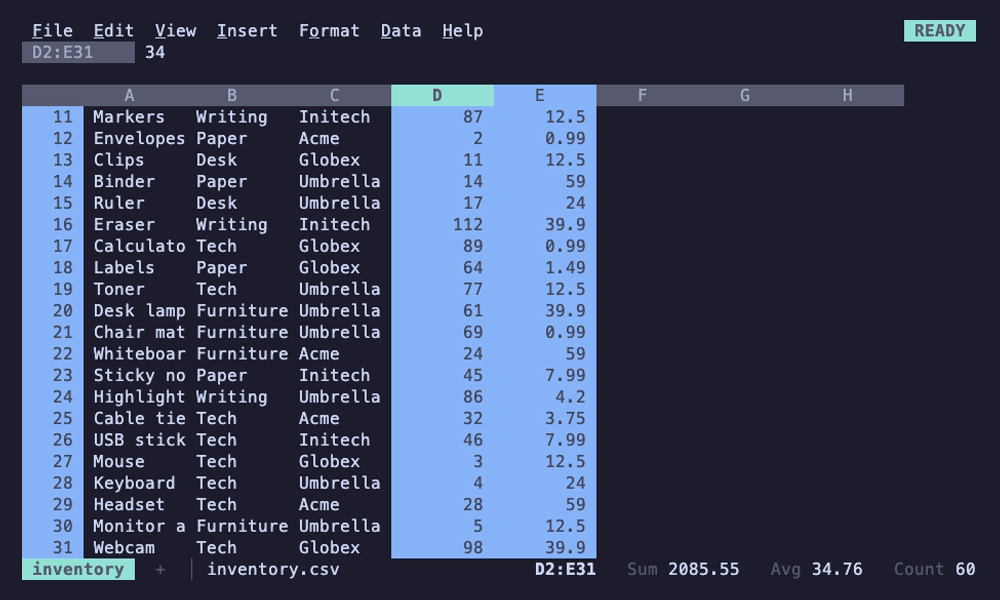
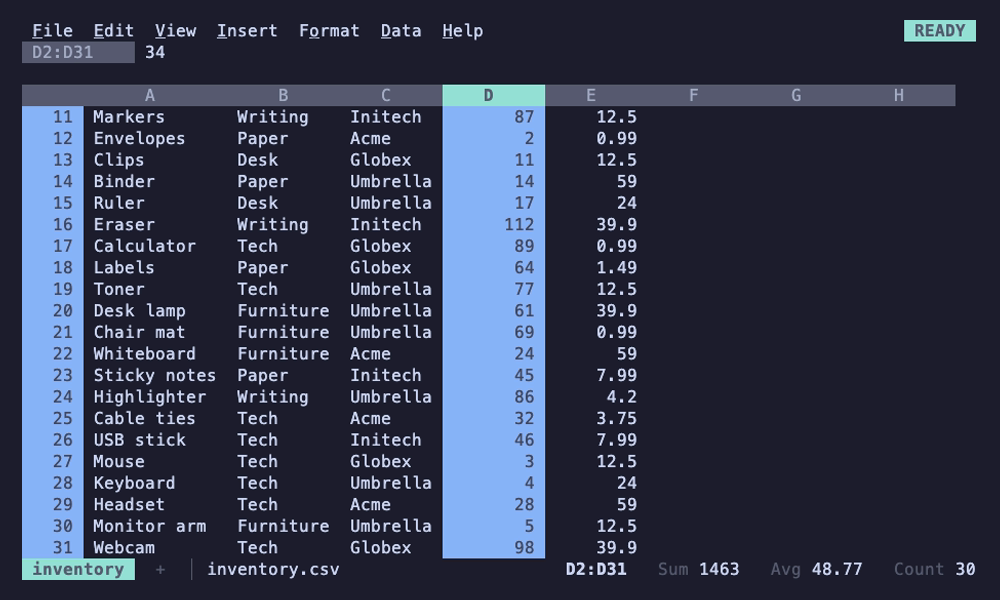
Imports without widths of their own fit their columns to the data
CSV, TSV, JSON, NUON, SQLite and Parquet imports, and tables read from
standard input (012 -, --pipe), kept every column at the default width,
so longer text (demos/data/inventory.csv's items) showed cut short.
Only XLSX and 1-2-3 files carry widths, and region tables were already
fitted. Such imports now widen each column to its widest text in the
header and the first 200 rows, capped at 30, as region tables are
fitted (Sheet.LoadFitWidths); formats that keep widths keep them.

diff --git a/e2e/testdata/screens/pipe-quit.html b/e2e/testdata/screens/pipe-quit.html
@@ -1,11 +1,11 @@
 <pre class="screen"> <span style="text-decoration:underline">F</span>ile  <span style="text-decoration:underline">E</span>dit  <span style="text-decoration:underline">V</span>iew  <span style="text-decoration:underline">I</span>nsert  F<span style="text-decoration:underline">o</span>rmat  <span style="text-decoration:underline">D</span>ata  <span style="text-decoration:underline">H</span>elp                                                 <span style="background:var(--vt-palette-6)"> </span><span style="color:var(--vt-palette-0);background:var(--vt-palette-6);font-weight:bold">MENU</span><span style="background:var(--vt-palette-6)"> </span>
 <span style="background:var(--vt-palette-8)"> </span><span style="color:var(--vt-palette-15);background:var(--vt-palette-8)">A1:B3</span><span style="background:var(--vt-palette-8)">     </span> name
 Send A1:B3 as NUON?   <span style="background:var(--vt-palette-8)"> </span><span style="color:var(--vt-palette-15);background:var(--vt-palette-8)">Enter</span><span style="background:var(--vt-palette-8)"> </span> Send selection   <span style="background:var(--vt-palette-8)"> </span><span style="color:var(--vt-palette-15);background:var(--vt-palette-8)">S</span><span style="background:var(--vt-palette-8)"> </span> Send sheet   <span style="background:var(--vt-palette-8)"> </span><span style="color:var(--vt-palette-15);background:var(--vt-palette-8)">D</span><span style="background:var(--vt-palette-8)"> </span> Don&#39;t send   <span style="background:var(--vt-palette-8)"> </span><span style="color:var(--vt-palette-15);background:var(--vt-palette-8)">Esc</span><span style="background:var(--vt-palette-8)"> </span> Cancel
-<span style="background:var(--vt-palette-8)">      </span><span style="background:var(--vt-palette-6)">    </span><span style="color:var(--vt-palette-0);background:var(--vt-palette-6);font-weight:bold">A</span><span style="background:var(--vt-palette-6)">     </span><span style="background:var(--vt-palette-4)">    </span><span style="color:var(--vt-palette-0);background:var(--vt-palette-4)">B</span><span style="background:var(--vt-palette-4)">     </span><span style="background:var(--vt-palette-8)">         </span><span style="color:var(--vt-palette-15);background:var(--vt-palette-8)">C</span><span style="background:var(--vt-palette-8)">              </span><span style="color:var(--vt-palette-15);background:var(--vt-palette-8)">D</span><span style="background:var(--vt-palette-8)">         </span><span style="color:var(--vt-palette-15);background:var(--vt-palette-8)">E</span><span style="background:var(--vt-palette-8)">         </span><span style="color:var(--vt-palette-15);background:var(--vt-palette-8)">F</span><span style="background:var(--vt-palette-8)">         </span><span style="color:var(--vt-palette-15);background:var(--vt-palette-8)">G</span><span style="background:var(--vt-palette-8)">         </span><span style="color:var(--vt-palette-15);background:var(--vt-palette-8)">H</span><span style="background:var(--vt-palette-8)">     </span>
-<span style="background:var(--vt-palette-6)">    </span><span style="color:var(--vt-palette-0);background:var(--vt-palette-6);font-weight:bold">1</span><span style="background:var(--vt-palette-6)">  </span><span style="color:var(--vt-palette-0);background:var(--vt-palette-6)">name</span><span style="background:var(--vt-palette-6)">     </span><span style="background:var(--vt-palette-4)"> </span><span style="color:var(--vt-palette-0);background:var(--vt-palette-4)">size</span><span style="background:var(--vt-palette-4)">     </span> modified
-<span style="background:var(--vt-palette-4)">    </span><span style="color:var(--vt-palette-0);background:var(--vt-palette-4)">2</span><span style="background:var(--vt-palette-4)">  </span><span style="color:var(--vt-palette-0);background:var(--vt-palette-4)">CLAUDE.md</span><span style="background:var(--vt-palette-4)">   </span><span style="color:var(--vt-palette-0);background:var(--vt-palette-4)">1.6</span><span style="background:var(--vt-palette-4)"> </span><span style="color:var(--vt-palette-0);background:var(--vt-palette-4)">kB</span><span style="background:var(--vt-palette-4)"> </span> 9/27/2026 11:27:31
-<span style="background:var(--vt-palette-4)">    </span><span style="color:var(--vt-palette-0);background:var(--vt-palette-4)">3</span><span style="background:var(--vt-palette-4)">  </span><span style="color:var(--vt-palette-0);background:var(--vt-palette-4)">go.mod</span><span style="background:var(--vt-palette-4)">       </span><span style="color:var(--vt-palette-0);background:var(--vt-palette-4)">812</span><span style="background:var(--vt-palette-4)"> </span><span style="color:var(--vt-palette-0);background:var(--vt-palette-4)">B</span><span style="background:var(--vt-palette-4)"> </span>  9/20/2026 8:00:00
-<span style="background:var(--vt-palette-8)">    </span><span style="color:var(--vt-palette-15);background:var(--vt-palette-8)">4</span><span style="background:var(--vt-palette-8)"> </span> e2e         4.2 kB  9/28/2026 17:45:10
+<span style="background:var(--vt-palette-8)">      </span><span style="background:var(--vt-palette-6)">     </span><span style="color:var(--vt-palette-0);background:var(--vt-palette-6);font-weight:bold">A</span><span style="background:var(--vt-palette-6)">     </span><span style="background:var(--vt-palette-4)">    </span><span style="color:var(--vt-palette-0);background:var(--vt-palette-4)">B</span><span style="background:var(--vt-palette-4)">     </span><span style="background:var(--vt-palette-8)">         </span><span style="color:var(--vt-palette-15);background:var(--vt-palette-8)">C</span><span style="background:var(--vt-palette-8)">              </span><span style="color:var(--vt-palette-15);background:var(--vt-palette-8)">D</span><span style="background:var(--vt-palette-8)">         </span><span style="color:var(--vt-palette-15);background:var(--vt-palette-8)">E</span><span style="background:var(--vt-palette-8)">         </span><span style="color:var(--vt-palette-15);background:var(--vt-palette-8)">F</span><span style="background:var(--vt-palette-8)">         </span><span style="color:var(--vt-palette-15);background:var(--vt-palette-8)">G</span><span style="background:var(--vt-palette-8)">         </span><span style="color:var(--vt-palette-15);background:var(--vt-palette-8)">H</span><span style="background:var(--vt-palette-8)">     </span>
+<span style="background:var(--vt-palette-6)">    </span><span style="color:var(--vt-palette-0);background:var(--vt-palette-6);font-weight:bold">1</span><span style="background:var(--vt-palette-6)">  </span><span style="color:var(--vt-palette-0);background:var(--vt-palette-6)">name</span><span style="background:var(--vt-palette-6)">      </span><span style="background:var(--vt-palette-4)"> </span><span style="color:var(--vt-palette-0);background:var(--vt-palette-4)">size</span><span style="background:var(--vt-palette-4)">     </span> modified
+<span style="background:var(--vt-palette-4)">    </span><span style="color:var(--vt-palette-0);background:var(--vt-palette-4)">2</span><span style="background:var(--vt-palette-4)">  </span><span style="color:var(--vt-palette-0);background:var(--vt-palette-4)">CLAUDE.md</span><span style="background:var(--vt-palette-4)">    </span><span style="color:var(--vt-palette-0);background:var(--vt-palette-4)">1.6</span><span style="background:var(--vt-palette-4)"> </span><span style="color:var(--vt-palette-0);background:var(--vt-palette-4)">kB</span><span style="background:var(--vt-palette-4)"> </span> 9/27/2026 11:27:31
+<span style="background:var(--vt-palette-4)">    </span><span style="color:var(--vt-palette-0);background:var(--vt-palette-4)">3</span><span style="background:var(--vt-palette-4)">  </span><span style="color:var(--vt-palette-0);background:var(--vt-palette-4)">go.mod</span><span style="background:var(--vt-palette-4)">        </span><span style="color:var(--vt-palette-0);background:var(--vt-palette-4)">812</span><span style="background:var(--vt-palette-4)"> </span><span style="color:var(--vt-palette-0);background:var(--vt-palette-4)">B</span><span style="background:var(--vt-palette-4)"> </span>  9/20/2026 8:00:00
+<span style="background:var(--vt-palette-8)">    </span><span style="color:var(--vt-palette-15);background:var(--vt-palette-8)">4</span><span style="background:var(--vt-palette-8)"> </span> e2e          4.2 kB  9/28/2026 17:45:10
 <span style="background:var(--vt-palette-8)">    </span><span style="color:var(--vt-palette-15);background:var(--vt-palette-8)">5</span><span style="background:var(--vt-palette-8)"> </span>
 <span style="background:var(--vt-palette-8)">    </span><span style="color:var(--vt-palette-15);background:var(--vt-palette-8)">6</span><span style="background:var(--vt-palette-8)"> </span>
 <span style="background:var(--vt-palette-8)">    </span><span style="color:var(--vt-palette-15);background:var(--vt-palette-8)">7</span><span style="background:var(--vt-palette-8)"> </span>

diff --git a/e2e/testdata/screens/pipe-quit-light.html b/e2e/testdata/screens/pipe-quit-light.html
@@ -1,11 +1,11 @@
 <pre class="screen"> <span style="text-decoration:underline">F</span>ile  <span style="text-decoration:underline">E</span>dit  <span style="text-decoration:underline">V</span>iew  <span style="text-decoration:underline">I</span>nsert  F<span style="text-decoration:underline">o</span>rmat  <span style="text-decoration:underline">D</span>ata  <span style="text-decoration:underline">H</span>elp                                                 <span style="background:var(--vt-palette-6)"> </span><span style="color:var(--vt-palette-0);background:var(--vt-palette-6);font-weight:bold">MENU</span><span style="background:var(--vt-palette-6)"> </span>
 <span style="background:var(--vt-palette-7)"> </span><span style="color:var(--vt-palette-0);background:var(--vt-palette-7)">A1:B3</span><span style="background:var(--vt-palette-7)">     </span> name
 Send A1:B3 as NUON?   <span style="background:var(--vt-palette-7)"> </span><span style="color:var(--vt-palette-0);background:var(--vt-palette-7)">Enter</span><span style="background:var(--vt-palette-7)"> </span> Send selection   <span style="background:var(--vt-palette-7)"> </span><span style="color:var(--vt-palette-0);background:var(--vt-palette-7)">S</span><span style="background:var(--vt-palette-7)"> </span> Send sheet   <span style="background:var(--vt-palette-7)"> </span><span style="color:var(--vt-palette-0);background:var(--vt-palette-7)">D</span><span style="background:var(--vt-palette-7)"> </span> Don&#39;t send   <span style="background:var(--vt-palette-7)"> </span><span style="color:var(--vt-palette-0);background:var(--vt-palette-7)">Esc</span><span style="background:var(--vt-palette-7)"> </span> Cancel
-<span style="background:var(--vt-palette-7)">      </span><span style="background:var(--vt-palette-6)">    </span><span style="color:var(--vt-palette-0);background:var(--vt-palette-6);font-weight:bold">A</span><span style="background:var(--vt-palette-6)">     </span><span style="background:var(--vt-palette-4)">    </span><span style="color:var(--vt-palette-15);background:var(--vt-palette-4)">B</span><span style="background:var(--vt-palette-4)">     </span><span style="background:var(--vt-palette-7)">         </span><span style="color:var(--vt-palette-0);background:var(--vt-palette-7)">C</span><span style="background:var(--vt-palette-7)">              </span><span style="color:var(--vt-palette-0);background:var(--vt-palette-7)">D</span><span style="background:var(--vt-palette-7)">         </span><span style="color:var(--vt-palette-0);background:var(--vt-palette-7)">E</span><span style="background:var(--vt-palette-7)">         </span><span style="color:var(--vt-palette-0);background:var(--vt-palette-7)">F</span><span style="background:var(--vt-palette-7)">         </span><span style="color:var(--vt-palette-0);background:var(--vt-palette-7)">G</span><span style="background:var(--vt-palette-7)">         </span><span style="color:var(--vt-palette-0);background:var(--vt-palette-7)">H</span><span style="background:var(--vt-palette-7)">     </span>
-<span style="background:var(--vt-palette-6)">    </span><span style="color:var(--vt-palette-0);background:var(--vt-palette-6);font-weight:bold">1</span><span style="background:var(--vt-palette-6)">  </span><span style="color:var(--vt-palette-0);background:var(--vt-palette-6)">name</span><span style="background:var(--vt-palette-6)">     </span><span style="background:var(--vt-palette-4)"> </span><span style="color:var(--vt-palette-15);background:var(--vt-palette-4)">size</span><span style="background:var(--vt-palette-4)">     </span> modified
-<span style="background:var(--vt-palette-4)">    </span><span style="color:var(--vt-palette-15);background:var(--vt-palette-4)">2</span><span style="background:var(--vt-palette-4)">  </span><span style="color:var(--vt-palette-15);background:var(--vt-palette-4)">CLAUDE.md</span><span style="background:var(--vt-palette-4)">   </span><span style="color:var(--vt-palette-15);background:var(--vt-palette-4)">1.6</span><span style="background:var(--vt-palette-4)"> </span><span style="color:var(--vt-palette-15);background:var(--vt-palette-4)">kB</span><span style="background:var(--vt-palette-4)"> </span> 9/27/2026 11:27:31
-<span style="background:var(--vt-palette-4)">    </span><span style="color:var(--vt-palette-15);background:var(--vt-palette-4)">3</span><span style="background:var(--vt-palette-4)">  </span><span style="color:var(--vt-palette-15);background:var(--vt-palette-4)">go.mod</span><span style="background:var(--vt-palette-4)">       </span><span style="color:var(--vt-palette-15);background:var(--vt-palette-4)">812</span><span style="background:var(--vt-palette-4)"> </span><span style="color:var(--vt-palette-15);background:var(--vt-palette-4)">B</span><span style="background:var(--vt-palette-4)"> </span>  9/20/2026 8:00:00
-<span style="background:var(--vt-palette-7)">    </span><span style="color:var(--vt-palette-0);background:var(--vt-palette-7)">4</span><span style="background:var(--vt-palette-7)"> </span> e2e         4.2 kB  9/28/2026 17:45:10
+<span style="background:var(--vt-palette-7)">      </span><span style="background:var(--vt-palette-6)">     </span><span style="color:var(--vt-palette-0);background:var(--vt-palette-6);font-weight:bold">A</span><span style="background:var(--vt-palette-6)">     </span><span style="background:var(--vt-palette-4)">    </span><span style="color:var(--vt-palette-15);background:var(--vt-palette-4)">B</span><span style="background:var(--vt-palette-4)">     </span><span style="background:var(--vt-palette-7)">         </span><span style="color:var(--vt-palette-0);background:var(--vt-palette-7)">C</span><span style="background:var(--vt-palette-7)">              </span><span style="color:var(--vt-palette-0);background:var(--vt-palette-7)">D</span><span style="background:var(--vt-palette-7)">         </span><span style="color:var(--vt-palette-0);background:var(--vt-palette-7)">E</span><span style="background:var(--vt-palette-7)">         </span><span style="color:var(--vt-palette-0);background:var(--vt-palette-7)">F</span><span style="background:var(--vt-palette-7)">         </span><span style="color:var(--vt-palette-0);background:var(--vt-palette-7)">G</span><span style="background:var(--vt-palette-7)">         </span><span style="color:var(--vt-palette-0);background:var(--vt-palette-7)">H</span><span style="background:var(--vt-palette-7)">     </span>
+<span style="background:var(--vt-palette-6)">    </span><span style="color:var(--vt-palette-0);background:var(--vt-palette-6);font-weight:bold">1</span><span style="background:var(--vt-palette-6)">  </span><span style="color:var(--vt-palette-0);background:var(--vt-palette-6)">name</span><span style="background:var(--vt-palette-6)">      </span><span style="background:var(--vt-palette-4)"> </span><span style="color:var(--vt-palette-15);background:var(--vt-palette-4)">size</span><span style="background:var(--vt-palette-4)">     </span> modified
+<span style="background:var(--vt-palette-4)">    </span><span style="color:var(--vt-palette-15);background:var(--vt-palette-4)">2</span><span style="background:var(--vt-palette-4)">  </span><span style="color:var(--vt-palette-15);background:var(--vt-palette-4)">CLAUDE.md</span><span style="background:var(--vt-palette-4)">    </span><span style="color:var(--vt-palette-15);background:var(--vt-palette-4)">1.6</span><span style="background:var(--vt-palette-4)"> </span><span style="color:var(--vt-palette-15);background:var(--vt-palette-4)">kB</span><span style="background:var(--vt-palette-4)"> </span> 9/27/2026 11:27:31
+<span style="background:var(--vt-palette-4)">    </span><span style="color:var(--vt-palette-15);background:var(--vt-palette-4)">3</span><span style="background:var(--vt-palette-4)">  </span><span style="color:var(--vt-palette-15);background:var(--vt-palette-4)">go.mod</span><span style="background:var(--vt-palette-4)">        </span><span style="color:var(--vt-palette-15);background:var(--vt-palette-4)">812</span><span style="background:var(--vt-palette-4)"> </span><span style="color:var(--vt-palette-15);background:var(--vt-palette-4)">B</span><span style="background:var(--vt-palette-4)"> </span>  9/20/2026 8:00:00
+<span style="background:var(--vt-palette-7)">    </span><span style="color:var(--vt-palette-0);background:var(--vt-palette-7)">4</span><span style="background:var(--vt-palette-7)"> </span> e2e          4.2 kB  9/28/2026 17:45:10
 <span style="background:var(--vt-palette-7)">    </span><span style="color:var(--vt-palette-0);background:var(--vt-palette-7)">5</span><span style="background:var(--vt-palette-7)"> </span>
 <span style="background:var(--vt-palette-7)">    </span><span style="color:var(--vt-palette-0);background:var(--vt-palette-7)">6</span><span style="background:var(--vt-palette-7)"> </span>
 <span style="background:var(--vt-palette-7)">    </span><span style="color:var(--vt-palette-0);background:var(--vt-palette-7)">7</span><span style="background:var(--vt-palette-7)"> </span>

diff --git a/e2e/testdata/screens/pipe-status.html b/e2e/testdata/screens/pipe-status.html
@@ -1,11 +1,11 @@
 <pre class="screen"> <span style="text-decoration:underline">F</span>ile  <span style="text-decoration:underline">E</span>dit  <span style="text-decoration:underline">V</span>iew  <span style="text-decoration:underline">I</span>nsert  F<span style="text-decoration:underline">o</span>rmat  <span style="text-decoration:underline">D</span>ata  <span style="text-decoration:underline">H</span>elp                                                <span style="background:var(--vt-palette-6)"> </span><span style="color:var(--vt-palette-0);background:var(--vt-palette-6);font-weight:bold">READY</span><span style="background:var(--vt-palette-6)"> </span>
 <span style="background:var(--vt-palette-8)"> </span><span style="color:var(--vt-palette-15);background:var(--vt-palette-8)">A1</span><span style="background:var(--vt-palette-8)">        </span> name
 Read 4 rows of NUON from standard input
-<span style="background:var(--vt-palette-8)">      </span><span style="background:var(--vt-palette-6)">    </span><span style="color:var(--vt-palette-0);background:var(--vt-palette-6);font-weight:bold">A</span><span style="background:var(--vt-palette-6)">     </span><span style="background:var(--vt-palette-8)">    </span><span style="color:var(--vt-palette-15);background:var(--vt-palette-8)">B</span><span style="background:var(--vt-palette-8)">              </span><span style="color:var(--vt-palette-15);background:var(--vt-palette-8)">C</span><span style="background:var(--vt-palette-8)">              </span><span style="color:var(--vt-palette-15);background:var(--vt-palette-8)">D</span><span style="background:var(--vt-palette-8)">         </span><span style="color:var(--vt-palette-15);background:var(--vt-palette-8)">E</span><span style="background:var(--vt-palette-8)">         </span><span style="color:var(--vt-palette-15);background:var(--vt-palette-8)">F</span><span style="background:var(--vt-palette-8)">         </span><span style="color:var(--vt-palette-15);background:var(--vt-palette-8)">G</span><span style="background:var(--vt-palette-8)">         </span><span style="color:var(--vt-palette-15);background:var(--vt-palette-8)">H</span><span style="background:var(--vt-palette-8)">     </span>
-<span style="background:var(--vt-palette-6)">    </span><span style="color:var(--vt-palette-0);background:var(--vt-palette-6);font-weight:bold">1</span><span style="background:var(--vt-palette-6)">  </span><span style="color:var(--vt-palette-0);background:var(--vt-palette-6)">name</span><span style="background:var(--vt-palette-6)">     </span> size      modified
-<span style="background:var(--vt-palette-8)">    </span><span style="color:var(--vt-palette-15);background:var(--vt-palette-8)">2</span><span style="background:var(--vt-palette-8)"> </span> CLAUDE.md   1.6 kB  9/27/2026 11:27:31
-<span style="background:var(--vt-palette-8)">    </span><span style="color:var(--vt-palette-15);background:var(--vt-palette-8)">3</span><span style="background:var(--vt-palette-8)"> </span> go.mod       812 B   9/20/2026 8:00:00
-<span style="background:var(--vt-palette-8)">    </span><span style="color:var(--vt-palette-15);background:var(--vt-palette-8)">4</span><span style="background:var(--vt-palette-8)"> </span> e2e         4.2 kB  9/28/2026 17:45:10
+<span style="background:var(--vt-palette-8)">      </span><span style="background:var(--vt-palette-6)">     </span><span style="color:var(--vt-palette-0);background:var(--vt-palette-6);font-weight:bold">A</span><span style="background:var(--vt-palette-6)">     </span><span style="background:var(--vt-palette-8)">    </span><span style="color:var(--vt-palette-15);background:var(--vt-palette-8)">B</span><span style="background:var(--vt-palette-8)">              </span><span style="color:var(--vt-palette-15);background:var(--vt-palette-8)">C</span><span style="background:var(--vt-palette-8)">              </span><span style="color:var(--vt-palette-15);background:var(--vt-palette-8)">D</span><span style="background:var(--vt-palette-8)">         </span><span style="color:var(--vt-palette-15);background:var(--vt-palette-8)">E</span><span style="background:var(--vt-palette-8)">         </span><span style="color:var(--vt-palette-15);background:var(--vt-palette-8)">F</span><span style="background:var(--vt-palette-8)">         </span><span style="color:var(--vt-palette-15);background:var(--vt-palette-8)">G</span><span style="background:var(--vt-palette-8)">         </span><span style="color:var(--vt-palette-15);background:var(--vt-palette-8)">H</span><span style="background:var(--vt-palette-8)">     </span>
+<span style="background:var(--vt-palette-6)">    </span><span style="color:var(--vt-palette-0);background:var(--vt-palette-6);font-weight:bold">1</span><span style="background:var(--vt-palette-6)">  </span><span style="color:var(--vt-palette-0);background:var(--vt-palette-6)">name</span><span style="background:var(--vt-palette-6)">      </span> size      modified
+<span style="background:var(--vt-palette-8)">    </span><span style="color:var(--vt-palette-15);background:var(--vt-palette-8)">2</span><span style="background:var(--vt-palette-8)"> </span> CLAUDE.md    1.6 kB  9/27/2026 11:27:31
+<span style="background:var(--vt-palette-8)">    </span><span style="color:var(--vt-palette-15);background:var(--vt-palette-8)">3</span><span style="background:var(--vt-palette-8)"> </span> go.mod        812 B   9/20/2026 8:00:00
+<span style="background:var(--vt-palette-8)">    </span><span style="color:var(--vt-palette-15);background:var(--vt-palette-8)">4</span><span style="background:var(--vt-palette-8)"> </span> e2e          4.2 kB  9/28/2026 17:45:10
 <span style="background:var(--vt-palette-8)">    </span><span style="color:var(--vt-palette-15);background:var(--vt-palette-8)">5</span><span style="background:var(--vt-palette-8)"> </span>
 <span style="background:var(--vt-palette-8)">    </span><span style="color:var(--vt-palette-15);background:var(--vt-palette-8)">6</span><span style="background:var(--vt-palette-8)"> </span>
 <span style="background:var(--vt-palette-8)">    </span><span style="color:var(--vt-palette-15);background:var(--vt-palette-8)">7</span><span style="background:var(--vt-palette-8)"> </span>

diff --git a/e2e/testdata/screens/pipe-status-light.html b/e2e/testdata/screens/pipe-status-light.html
@@ -1,11 +1,11 @@
 <pre class="screen"> <span style="text-decoration:underline">F</span>ile  <span style="text-decoration:underline">E</span>dit  <span style="text-decoration:underline">V</span>iew  <span style="text-decoration:underline">I</span>nsert  F<span style="text-decoration:underline">o</span>rmat  <span style="text-decoration:underline">D</span>ata  <span style="text-decoration:underline">H</span>elp                                                <span style="background:var(--vt-palette-6)"> </span><span style="color:var(--vt-palette-0);background:var(--vt-palette-6);font-weight:bold">READY</span><span style="background:var(--vt-palette-6)"> </span>
 <span style="background:var(--vt-palette-7)"> </span><span style="color:var(--vt-palette-0);background:var(--vt-palette-7)">A1</span><span style="background:var(--vt-palette-7)">        </span> name
 Read 4 rows of NUON from standard input
-<span style="background:var(--vt-palette-7)">      </span><span style="background:var(--vt-palette-6)">    </span><span style="color:var(--vt-palette-0);background:var(--vt-palette-6);font-weight:bold">A</span><span style="background:var(--vt-palette-6)">     </span><span style="background:var(--vt-palette-7)">    </span><span style="color:var(--vt-palette-0);background:var(--vt-palette-7)">B</span><span style="background:var(--vt-palette-7)">              </span><span style="color:var(--vt-palette-0);background:var(--vt-palette-7)">C</span><span style="background:var(--vt-palette-7)">              </span><span style="color:var(--vt-palette-0);background:var(--vt-palette-7)">D</span><span style="background:var(--vt-palette-7)">         </span><span style="color:var(--vt-palette-0);background:var(--vt-palette-7)">E</span><span style="background:var(--vt-palette-7)">         </span><span style="color:var(--vt-palette-0);background:var(--vt-palette-7)">F</span><span style="background:var(--vt-palette-7)">         </span><span style="color:var(--vt-palette-0);background:var(--vt-palette-7)">G</span><span style="background:var(--vt-palette-7)">         </span><span style="color:var(--vt-palette-0);background:var(--vt-palette-7)">H</span><span style="background:var(--vt-palette-7)">     </span>
-<span style="background:var(--vt-palette-6)">    </span><span style="color:var(--vt-palette-0);background:var(--vt-palette-6);font-weight:bold">1</span><span style="background:var(--vt-palette-6)">  </span><span style="color:var(--vt-palette-0);background:var(--vt-palette-6)">name</span><span style="background:var(--vt-palette-6)">     </span> size      modified
-<span style="background:var(--vt-palette-7)">    </span><span style="color:var(--vt-palette-0);background:var(--vt-palette-7)">2</span><span style="background:var(--vt-palette-7)"> </span> CLAUDE.md   1.6 kB  9/27/2026 11:27:31
-<span style="background:var(--vt-palette-7)">    </span><span style="color:var(--vt-palette-0);background:var(--vt-palette-7)">3</span><span style="background:var(--vt-palette-7)"> </span> go.mod       812 B   9/20/2026 8:00:00
-<span style="background:var(--vt-palette-7)">    </span><span style="color:var(--vt-palette-0);background:var(--vt-palette-7)">4</span><span style="background:var(--vt-palette-7)"> </span> e2e         4.2 kB  9/28/2026 17:45:10
+<span style="background:var(--vt-palette-7)">      </span><span style="background:var(--vt-palette-6)">     </span><span style="color:var(--vt-palette-0);background:var(--vt-palette-6);font-weight:bold">A</span><span style="background:var(--vt-palette-6)">     </span><span style="background:var(--vt-palette-7)">    </span><span style="color:var(--vt-palette-0);background:var(--vt-palette-7)">B</span><span style="background:var(--vt-palette-7)">              </span><span style="color:var(--vt-palette-0);background:var(--vt-palette-7)">C</span><span style="background:var(--vt-palette-7)">              </span><span style="color:var(--vt-palette-0);background:var(--vt-palette-7)">D</span><span style="background:var(--vt-palette-7)">         </span><span style="color:var(--vt-palette-0);background:var(--vt-palette-7)">E</span><span style="background:var(--vt-palette-7)">         </span><span style="color:var(--vt-palette-0);background:var(--vt-palette-7)">F</span><span style="background:var(--vt-palette-7)">         </span><span style="color:var(--vt-palette-0);background:var(--vt-palette-7)">G</span><span style="background:var(--vt-palette-7)">         </span><span style="color:var(--vt-palette-0);background:var(--vt-palette-7)">H</span><span style="background:var(--vt-palette-7)">     </span>
+<span style="background:var(--vt-palette-6)">    </span><span style="color:var(--vt-palette-0);background:var(--vt-palette-6);font-weight:bold">1</span><span style="background:var(--vt-palette-6)">  </span><span style="color:var(--vt-palette-0);background:var(--vt-palette-6)">name</span><span style="background:var(--vt-palette-6)">      </span> size      modified
+<span style="background:var(--vt-palette-7)">    </span><span style="color:var(--vt-palette-0);background:var(--vt-palette-7)">2</span><span style="background:var(--vt-palette-7)"> </span> CLAUDE.md    1.6 kB  9/27/2026 11:27:31
+<span style="background:var(--vt-palette-7)">    </span><span style="color:var(--vt-palette-0);background:var(--vt-palette-7)">3</span><span style="background:var(--vt-palette-7)"> </span> go.mod        812 B   9/20/2026 8:00:00
+<span style="background:var(--vt-palette-7)">    </span><span style="color:var(--vt-palette-0);background:var(--vt-palette-7)">4</span><span style="background:var(--vt-palette-7)"> </span> e2e          4.2 kB  9/28/2026 17:45:10
 <span style="background:var(--vt-palette-7)">    </span><span style="color:var(--vt-palette-0);background:var(--vt-palette-7)">5</span><span style="background:var(--vt-palette-7)"> </span>
 <span style="background:var(--vt-palette-7)">    </span><span style="color:var(--vt-palette-0);background:var(--vt-palette-7)">6</span><span style="background:var(--vt-palette-7)"> </span>
 <span style="background:var(--vt-palette-7)">    </span><span style="color:var(--vt-palette-0);background:var(--vt-palette-7)">7</span><span style="background:var(--vt-palette-7)"> </span>

diff --git a/internal/fileio/widths_test.go b/internal/fileio/widths_test.go
@@ -1,0 +1,72 @@
+package fileio
+
+import (
+	"context"
+	"os"
+	"path/filepath"
+	"strings"
+	"testing"
+
+	"github.com/FelineStateMachine/012/internal/sheet"
+)
+
+// Formats without widths of their own fit their columns to the header
+// and the rows below it, capped, and leave narrow columns at the
+// default; read from a stream too.
+func TestImportFitsWidths(t *testing.T) {
+	long := strings.Repeat("x", 60)
+	files := map[string]string{
+		"t.csv":   "Item,Qty,Note\nStapler with a long name,3," + long + "\n",
+		"t.tsv":   "Item\tQty\tNote\nStapler with a long name\t3\t" + long + "\n",
+		"t.json":  `[{"Item":"Stapler with a long name","Qty":3,"Note":"` + long + `"}]`,
+		"t.nuon":  `[[Item, Qty, Note]; ["Stapler with a long name", 3, "` + long + `"]]`,
+		"t.jsonl": `{"Item":"Stapler with a long name","Qty":3,"Note":"` + long + `"}`,
+	}
+	check := func(t *testing.T, s *sheet.Sheet) {
+		t.Helper()
+		if got := s.ColWidth(0); got != len("Stapler with a long name")+2 {
+			t.Errorf("Item is %d wide", got)
+		}
+		if got := s.ColWidth(1); got != sheet.DefaultWidth {
+			t.Errorf("Qty is %d wide, want the default", got)
+		}
+		if got := s.ColWidth(2); got != 30 {
+			t.Errorf("Note is %d wide, want the cap", got)
+		}
+	}
+	dir := t.TempDir()
+	for name, text := range files {
+		t.Run(name, func(t *testing.T) {
+			path := filepath.Join(dir, name)
+			os.WriteFile(path, []byte(text), 0o600)
+			r, err := Import(context.Background(), path, Options{})
+			if err != nil {
+				t.Fatal(err)
+			}
+			check(t, r.Sheet)
+			r, err = ImportReader(context.Background(), "stdin", strings.NewReader(text), Options{})
+			if err != nil {
+				t.Fatal(err)
+			}
+			check(t, r.Sheet)
+		})
+	}
+}
+
+// A format that keeps widths keeps them, and columns it leaves at the
+// default stay there.
+func TestImportKeepsFileWidths(t *testing.T) {
+	s := sheet.New()
+	s.Set(sheet.Addr{}, strings.Repeat("x", 40))
+	path := filepath.Join(t.TempDir(), "t.xlsx")
+	if _, err := Export(context.Background(), path, XLSX, SnapBook(s), ExportOptions{}); err != nil {
+		t.Fatal(err)
+	}
+	r, err := Import(context.Background(), path, Options{})
+	if err != nil {
+		t.Fatal(err)
+	}
+	if got := r.Sheet.ColWidth(0); got != sheet.DefaultWidth {
+		t.Errorf("A is %d wide, want the file's default", got)
+	}
+}

diff --git a/internal/fileio/formats.go b/internal/fileio/formats.go
@@ -49,6 +49,10 @@ type fileFormat struct {
 	// tables is set for databases: an import picks a table, and an
 	// export writes the sheet or the selection as a named table.
 	tables bool
+	// widths is set for formats that keep column widths: an import
+	// keeps them, where the other formats' columns are fitted to their
+	// data (Sheet.LoadFitWidths).
+	widths bool
 }
 
 // An importer reads a file into a new workbook, returning the sheet to
@@ -71,7 +75,7 @@ var kinds = []fileFormat{{
 	kind: XLSX, name: "XLSX", noun: "Excel", label: "Excel workbook", exts: []string{".xlsx", ".xlsm"},
 	read: importXLSX, write: exportXLSX, menu: "Microsoft Excel",
 	about: "Save as an Excel workbook (.xlsx) with formulas, formats and widths",
-	book:  true,
+	book:  true, widths: true,
 }, {
 	kind: SQLite, name: "SQLite", noun: "SQLite", label: "SQLite database", exts: []string{".sqlite", ".sqlite3", ".db"},
 	read: importSQLite, write: exportSQLite, menu: "SQLite database",
@@ -82,7 +86,7 @@ var kinds = []fileFormat{{
 	read: importParquet,
 }, {
 	kind: WK1, name: "WK1", noun: "1-2-3", label: "Lotus 1-2-3 worksheet", exts: []string{".wk1", ".wks"},
-	read: importWK1,
+	read: importWK1, widths: true,
 }, {
 	kind: JSON, name: "JSON", noun: "JSON", label: "JSON list of records", exts: []string{".json", ".ndjson", ".jsonl"},
 	read: importJSON, write: exportJSON, menu: "JSON list of records", encode: encodeJSON,

diff --git a/internal/sheet/load.go b/internal/sheet/load.go
@@ -31,6 +31,17 @@ func (s *Sheet) LoadColWidth(c, w int) {
 	}
 }
 
+// LoadFitWidths widens each column of the used range whose width isn't
+// set to its widest text among the first rows (a header and a sample
+// below it), capped, as a table a region shows is fitted: what an
+// importer does for a format that keeps no widths of its own (CSV,
+// JSON). Without recording undo.
+func (s *Sheet) LoadFitWidths() {
+	if used, ok := s.UsedRange(); ok {
+		s.fitTable(used.From, used.To.Row-used.From.Row+1, used.To.Col-used.From.Col+1)
+	}
+}
+
 // Unload removes a cell a loader stored, as an importer does with a row
 // that doesn't fit whole.
 func (s *Sheet) Unload(a Addr) { s.place(a, nil) }

diff --git a/internal/fileio/stream.go b/internal/fileio/stream.go
@@ -31,6 +31,7 @@ func ImportReader(ctx context.Context, name string, r io.Reader, opt Options) (*
 	if book := res.Sheet.Book(); book.RenameSheet(res.Sheet, sheetName(name)) == nil {
 		book.ClearHistory()
 	}
+	res.Sheet.LoadFitWidths() // a stream is CSV, TSV, JSON or NUON: no widths of its own
 	if p := opt.Progress; p != nil {
 		p.permille.Store(1000)
 	}

diff --git a/internal/fileio/fileio.go b/internal/fileio/fileio.go
@@ -141,6 +141,9 @@ func importKind(ctx context.Context, name string, k Kind, opt Options) (*Result,
 		}
 	}
 	r.Kind = k
+	if !k.format().widths {
+		r.Sheet.LoadFitWidths()
+	}
 	if p := opt.Progress; p != nil && p.permille.Load() >= 0 {
 		p.permille.Store(1000)
 	}

diff --git a/docs/files/README.md b/docs/files/README.md
@@ -33,7 +33,9 @@ Sheets copies a filtered range; XLSX keeps every row, the hidden ones
 hidden.
 
 Formats other than XLSX import as one sheet named after the file (or the
-SQLite table). A file can also be followed instead, its table in a
+SQLite table). Formats that keep no column widths (all but XLSX and
+1-2-3) have their columns fitted to the header and the first 200 rows,
+at most 30 characters wide, as are tables read from standard input. A file can also be followed instead, its table in a
 linked region that takes in new rows as the file grows or is rewritten:
 see [Following files](following.md). A table can also come in on standard input, and go back
 out on standard output: see [Pipelines](../nushell/pipelines.md).
